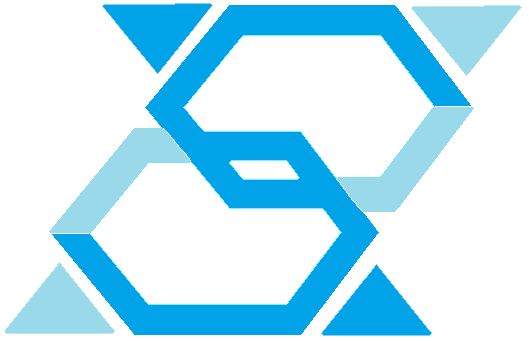
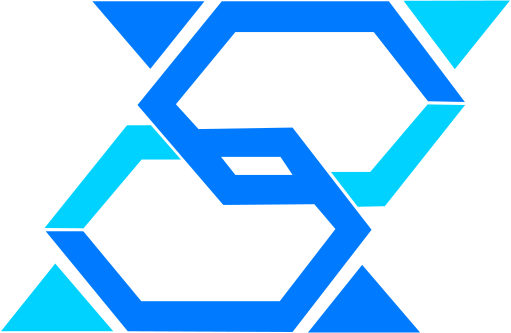
Editado login.php e home.php e criado imagens .svg.

diff --git a/resources/views/home.php b/resources/views/home.php
@@ -42,7 +42,7 @@
     <div id="page-content-wrapper">
 
       <nav class="navbar navbar-expand-lg navbar-dark bg-primary border-bottom fixed-top">
-        <a class="navbar-brand exo2-semi-bold-italic" href="#">Syntheticx</a>
+        <a class="navbar-brand exo2-semi-bold-italic" href="#"><img class="mr-2 ml-2" src="images/syntheticx_white.svg" alt="" width="36" height="27">Syntheticx</a>
         <!--<button class="btn btn-primary" id="menu-toggle">Toggle Menu</button>-->
         <button class="navbar-toggler" type="button" data-toggle="collapse" data-target="#navbarSupportedContent" aria-controls="navbarSupportedContent" aria-expanded="false" aria-label="Toggle navigation">
           <i class="fas fa-bars fa-small-size"></i>

diff --git a/resources/views/login.php b/resources/views/login.php
@@ -5,7 +5,7 @@
         <div class="col-sm-4">
 		<form class="form-signin">
 		  <div class="text-center mb-4">
-		    <img class="mb-4" src="images/syntheticx.png" alt="" width="128" height="92">
+		    <img class="mb-2" src="images/syntheticx.svg" alt="" width="128" height="92">
 		    <h1 class="h3 mb-3 font-weight-normal exo2-semi-bold-italic">SYNTHETICX</h1>
 		  </div>
 		<br>

diff --git a/README.md b/README.md
@@ -1,5 +1,7 @@
-<img src="public/images/syntheticx.png" alt="" width="128" height="92"> 
+<img src="public/images/syntheticx.svg" alt="" width="128" height="92"> 
 
 # SyntheticX
 
-Projeto de _aprendizado_, sistema gerenciador de usuários.
+Projeto de _aprendizado_, sistema gerenciador de usuários (_funcionários_) com cadastro e permissão de acesso de acordo com perfil, manutenção de cargos e setores via administrador e elaboração de relatórios.
+
+
